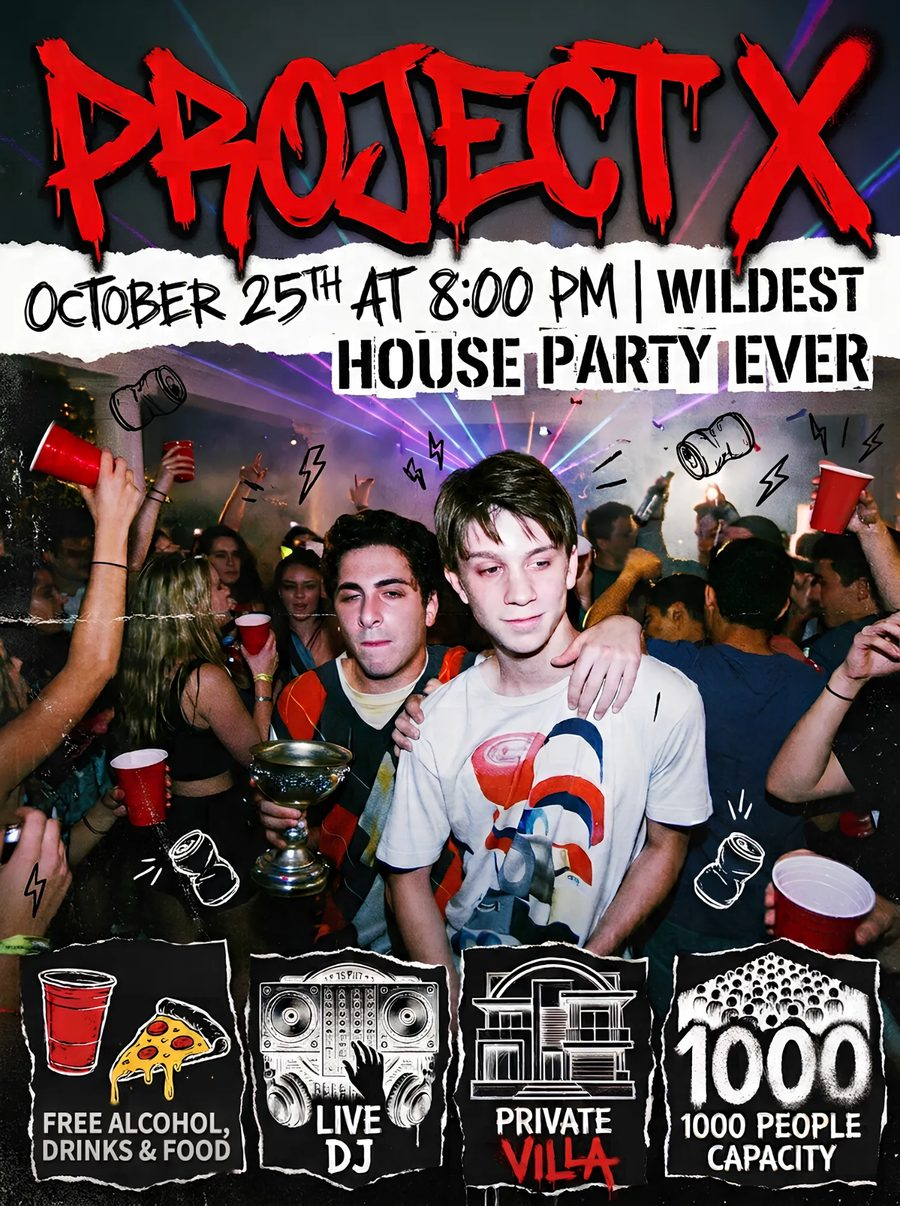
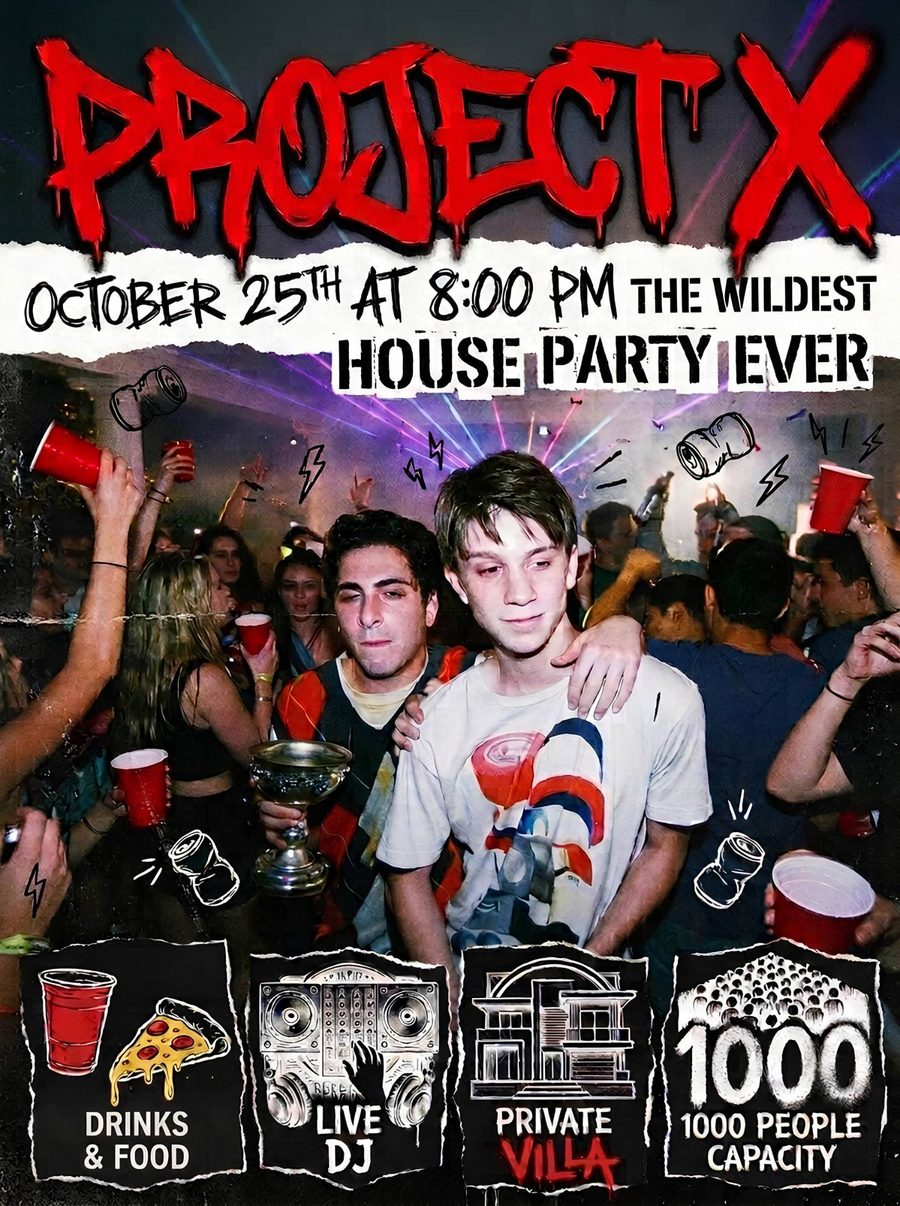
New Project X poster (drinks and food, no alcohol line)
Claude-Session: https://claude.ai/code/session_01MVno12pjS6dUmZj7dopiL4

diff --git a/index.html b/index.html
@@ -41,7 +41,7 @@
   <main class="mx-auto max-w-5xl px-4 pb-10 pt-5 lg:pb-16 lg:pt-10">
     <!-- Top: poster next to the key facts -->
     <section class="u-rise lg:grid lg:grid-cols-[340px_minmax(0,1fr)] lg:items-center lg:gap-10">
-      <img src="/project-x.webp" alt="Project X poster" width="1200" height="1607" fetchpriority="high"
+      <img src="/project-x.webp" alt="Project X poster" width="1200" height="1608" fetchpriority="high"
           class="mx-auto block w-full max-w-sm rounded-3xl shadow-[0_24px_48px_-24px_rgba(0,0,0,.6)] ring-1 ring-black/5 dark:ring-white/10 lg:max-w-none" />
       <div class="mt-6 space-y-5 lg:mt-0">
         <div class="flex items-start gap-4">
